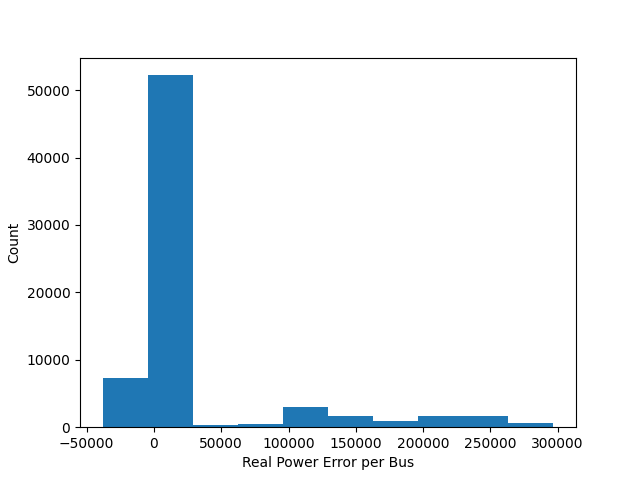
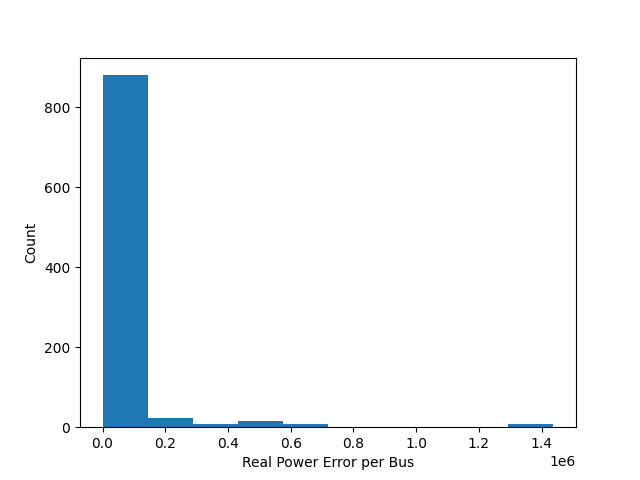
matpower test

diff --git a/equations/real_power_equation.py b/equations/real_power_equation.py
@@ -14,6 +14,7 @@ class RealPowerEquation(Equation):
     def __init__(self, n_buses, admittance_file) -> None:
         self.n_buses = n_buses
         self.admittance = pd.read_csv(admittance_file).fillna("").applymap(RealPowerEquation._to_complex)
+        print(self.admittance.shape)
         self.bus_losses = []
 
     @classmethod
@@ -24,6 +25,8 @@ class RealPowerEquation(Equation):
             s = s.replace(" ", "")
             if "j" in s:
                 s = s.replace("j", "") + "j"
+            s = s.replace("i", "j")
+
             return complex(s)
         
     def evaluate(self, states):
@@ -40,15 +43,15 @@ class RealPowerEquation(Equation):
                 j_base_idk = 6 * bus_j
                 v_j = states[-1, j_base_idk + V_IDX]
                 theta_j = states[-1, j_base_idk + THETA_IDX]
-
-                bus_power =  v_j * (self.admittance.iloc[bus_k, bus_j].real * np.cos(theta_k - theta_j)
-                                                                    + self.admittance.iloc[bus_k, bus_j].imag * np.sin(theta_k - theta_j))
+                radians = (np.pi / 180) * (theta_k - theta_j)
+                bus_power =  v_j * (self.admittance.iloc[bus_k, bus_j].real * np.cos(radians)
+                                                                    + self.admittance.iloc[bus_k, bus_j].imag * np.sin(radians))
                 bus_loss += bus_power
             bus_loss *= v_k
             bus_loss -= generator_mw_k
             bus_loss += load_mw_k
-            # print(bus_k, bus_loss)
-            self.bus_losses.append(bus_loss)
+            print(bus_k, bus_loss)
+            self.bus_losses.append(np.abs(bus_loss))
             loss += (bus_loss ** 2)
         # print(loss)
         return loss            

diff --git a/matlab/run_matpower.m b/matlab/run_matpower.m
@@ -1,0 +1,30 @@
+define_constants;
+mpc = loadcase('case118');
+results = runpf(mpc);
+states = [];
+for i=1:10
+    states = add_state(results, states);
+end
+writematrix(states, "118_state.csv");
+
+function states = add_state(results, states)
+    define_constants;
+    state = ["Date" "Time"];
+    for i=1:length(results.bus(:, VM))
+        gen_idx = find(results.gen(:, GEN_BUS) == i);
+        if ~isempty(gen_idx)
+            state(end + 1) = results.gen(gen_idx, QG);
+            state(end + 1) = results.gen(gen_idx, PG);
+        else
+            state(end + 1) = 0;
+            state(end + 1) = 0;
+        end
+        state(end + 1) = results.bus(i, QD);
+        state(end + 1) = results.bus(i, PD);
+        state(end + 1) = results.bus(i, VA);
+        state(end + 1) = results.bus(i, VM) * results.bus(i, BASE_KV);
+    end
+    state(end + 1) = "no";
+    states = [states;state];
+
+end
